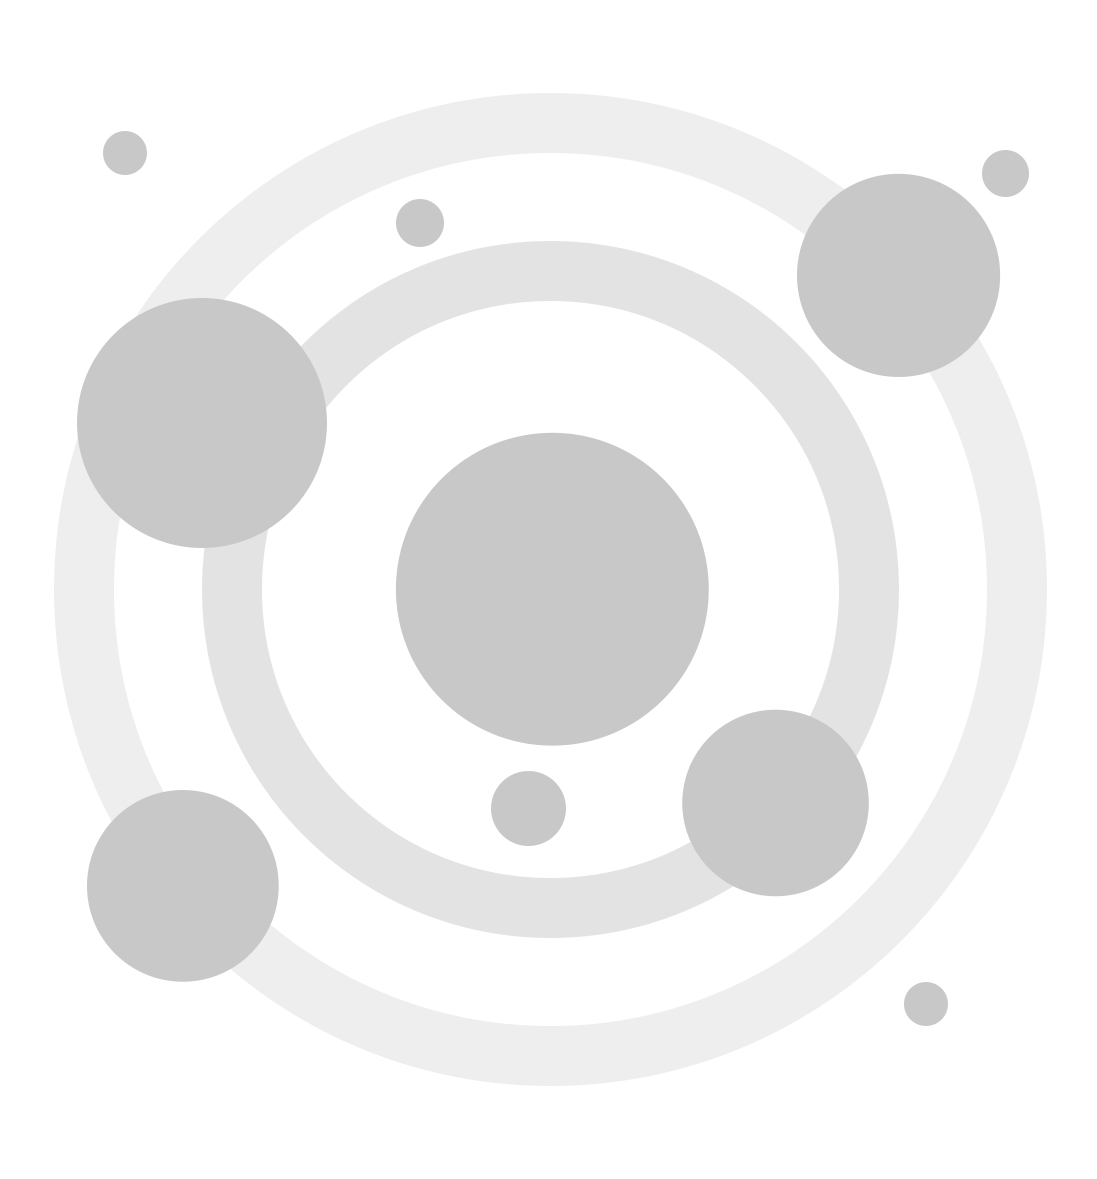
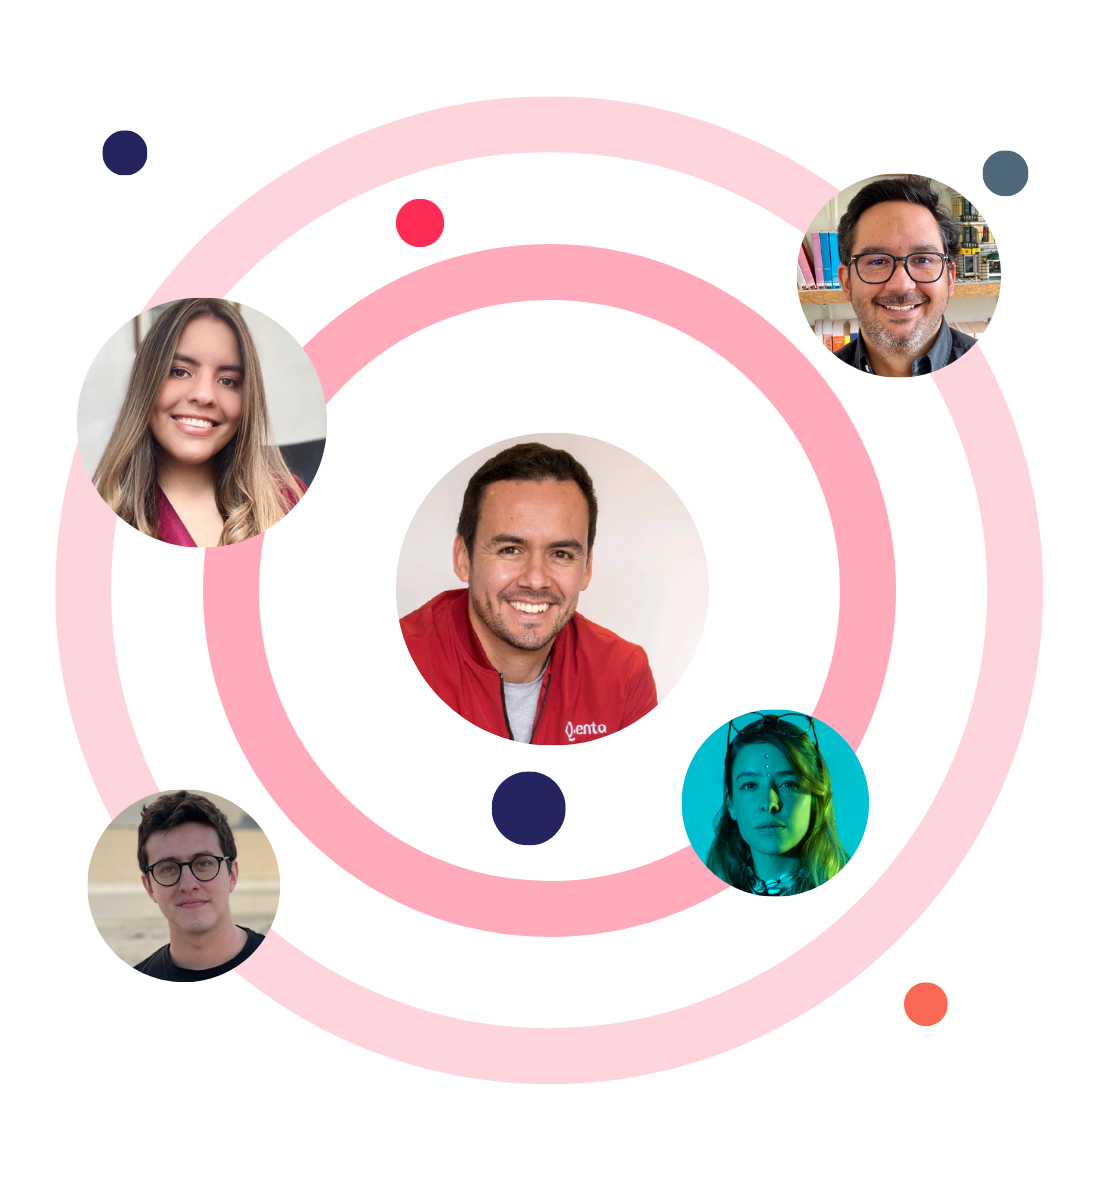
update homepage

diff --git a/index.html b/index.html
@@ -99,7 +99,7 @@
 
 
     <!-- banner starts -->
-    <section class="banner pt-10 pb-0 overflow-hidden" style="background-image:url(images/pexels-wendy-wei-1190297.jpg);">
+    <section class="banner pt-10 pb-0 overflow-hidden" style="background-image:url(2023/images/pexels-wendy-wei-1190297.jpg);">
         <div class="container">
             <div class="banner-in pt-6">
                 <div class="row align-items-end">
@@ -119,8 +119,8 @@
                         </div>
                     </div>
                     <div class="col-lg-5">
-                        <div class="banner-image" style="background-image:url(images/manbg.png);">
-                            <img src="2023/images/man4.png" alt="">
+                        <div class="banner-image" style="background-image:url(2023/images/speakersbg.png);">
+                            <img src="2023/images/speakers2023.png" alt="">
                         </div>
                     </div>
                 </div>
@@ -149,7 +149,7 @@
     <!-- coming counter Ends -->
 
      <!-- about-us starts -->
-     <section class="about-us about-features pt-12 pb-8" style="background-image:url(images/testimonial-1.png);">
+     <section class="about-us about-features pt-12 pb-8" style="background-image:url(2023/images/testimonial-1.png);">
         <div class="container">
             <div class="about-image-box">
                 <div class="row d-flex align-items-center justify-content-between">
@@ -239,7 +239,7 @@
                         </div>
                     </div>
                     <div class="col-lg-7 ps-4">
-                        <div class="about-features" style="background-image:url(images/contentbg.png);">
+                        <div class="about-features" style="background-image:url(2023/images/contentbg.png);">
                             <div class="row align-items-center">
                                 <div class="col-lg-6 mb-4">
                                     <img src="2023/images/about/busi-3.jpg" alt="">
@@ -522,7 +522,7 @@
     <!-- event-schedule ends -->
 
     <!-- our teams starts -->
-    <section class="event-team" style="background-image: url(images/manbg.png);">
+    <section class="event-team" style="background-image: url(2023/images/speakersbg.png);">
         <div class="container">
 
             <div class="section-title mb-5 w-75 mx-auto text-center">
@@ -764,7 +764,7 @@
     <!-- event-pricing ends -->
 
     <!-- event-calltoaction starts -->
-    <section class="event-calltoaction pb-0" style="background-image: url(images/pexels-sascha.jpg);">
+    <section class="event-calltoaction pb-0" style="background-image: url(2023/images/pexels-sascha.jpg);">
         <div class="container">
             <div class="section-title mb-5 w-60 mx-auto text-center">
                 <h3 class="h-title theme-stroke">Festival</h3>
@@ -823,7 +823,7 @@
     <!-- event-calltoaction ends -->
 
     <!-- event-gallery starts -->
-    <section class="event-gallery pb-0 pt-18" style="background-image: url(images/speaker_bg.png);">
+    <section class="event-gallery pb-0 pt-18" style="background-image: url(2023/images/speaker_bg.png);">
         <div class="container">
             <div class="section-title mb-5 w-75 mx-auto text-center">
                 <h3 class="h-title">Galeria</h3>
@@ -939,7 +939,7 @@
                                     <p class="m-0">El asombroso futuro es de las conferencias tecnológicas.</p>
                                 </div>
                                 <div class="author-info d-flex align-items-center">
-                                    <img src="2023/images/reviewer/1.jpg" alt="">
+                                    <img src="2023/images/reviewer/giancarlo-hincapie.png" alt="">
                                     <div class="author-title ms-3">
                                         <h5 class="m-0 theme">Giancarlo Hincapié Martinez</h5>
                                         <span>Industria Licorera Caldas</span>
@@ -954,7 +954,7 @@
                                     <p class="m-0">BOGOWEEK sigue siendo la respuesta más frecuente cuando les pregunto a otras personas sobre la conferencia a la que más quieren asistir este año.</p>
                                 </div>
                                 <div class="author-info d-flex align-items-center">
-                                    <img src="2023/images/reviewer/2.jpg" alt="">
+                                    <img src="2023/images/reviewer/flor-lievano.png" alt="">
                                     <div class="author-title ms-3">
                                         <h5 class="m-0 theme">Flor Liévano</h5>
                                         <span>OrangeUP Inc.</span>
@@ -969,7 +969,7 @@
                                     <p class="m-0">Techstars Startup Week es una de las conferencias de empresas emergentes más importantes del mundo..</p>
                                 </div>
                                 <div class="author-info d-flex align-items-center">
-                                    <img src="2023/images/reviewer/2.jpg" alt="">
+                                    <img src="2023/images/reviewer/eli-becerril.png" alt="">
                                     <div class="author-title ms-3">
                                         <h5 class="m-0 theme">Eli Becerril Wong</h5>
                                         <span>Techstars</span>
@@ -1021,6 +1021,52 @@
                     <h2 class="ah-headline mb-0">
                         <span>Patrocinio</span>
                         <span class="ah-words-wrapper white theme">
+                        <b class="is-visible textcap">Global</b>
+                        <b>Global</b>
+                        </span>
+                    </h2>
+                </div>
+            </div>
+            <div class="partners_inner">
+                <div class="row">
+                    <div class="col-lg-3 col-md-6 mb-4">
+                        <div class="partner-list border-all mb-4">
+                            <img src="2023/images/aliados/techstars.png" alt="Techstars">
+                        </div>
+                    </div>
+                    <div class="col-lg-3 col-md-6 mb-4">
+                        <div class="partner-list border-all">
+                            <img src="2023/images/aliados/godaddy-registry.png" alt="GoDaddy Registry">
+                        </div>
+                    </div>
+                    <div class="col-lg-3 col-md-6 mb-4">
+                        <div class="partner-list border-all mb-4">
+                            <img src="2023/images/aliados/brex.png" alt="Brex">
+                        </div>
+                    </div>
+                    <div class="col-lg-3 col-md-6 mb-4">
+                        <div class="partner-list border-all">
+                            <img src="2023/images/aliados/google-startups.png" alt="Google for Startups">
+                        </div>
+                    </div>
+                </div>
+            </div>
+
+            <div class="event-seperator">
+                <div class="container">
+                    <div class="event-seperator-divider d-flex border-b pt-2">
+                        <div class="event-seperator-icon position-absolute start-50 top-0 bg-white p-1">
+                            <i class="fas fa-star theme fs-5"></i>
+                        </div>
+                    </div>
+                </div>
+            </div>
+
+            <div class="section-title mb-5 w-75 mx-auto text-center">
+                <div class="selector4" style="display: flex; justify-content: center;">
+                    <h2 class="ah-headline mb-0">
+                        <span>Patrocinio</span>
+                        <span class="ah-words-wrapper white theme">
                         <b class="is-visible textcap">Gold</b>
                         <b>Gold</b>
                         </span>
@@ -1031,40 +1077,40 @@
                 <div class="row">
                     <div class="col-lg-3 col-md-6 mb-4">
                         <div class="partner-list border-all mb-4">
-                            <img src="2023/images/cl-5.png" alt="">
+                            <img src="2023/images/aliados/suego.png" alt="SUEGO S.A.S">
                         </div>
                         <div class="partner-list border-all">
-                            <img src="2023/images/cl-3.png" alt="">
+                            <img src="2023/images/aliados/orangeup.png" alt="OrangeUP Inc.">
                         </div>
                     </div>
                     <div class="col-lg-3 col-md-6 mb-4">
                         <div class="partner-list border-all mb-4">
-                            <img src="2023/images/cl-5.png" alt="">
+                            <img src="2023/images/aliados/wishupdigital.png" alt="WishUP Digital">
                         </div>
                         <div class="partner-list border-all">
-                            <img src="2023/images/cl-4.png" alt="">
+                            <img src="2023/images/aliados/aigente.png" alt="Aigente">
                         </div>
                     </div>
                     <div class="col-lg-3 col-md-6 mb-4">
                         <div class="partner-list border-all mb-4">
-                            <img src="2023/images/cl-1.png" alt="">
+                            <img src="2023/images/aliados/ccb.png" alt="">
                         </div>
                         <div class="partner-list border-all">
-                            <img src="2023/images/cl-2.png" alt="">
+                            <img src="2023/images/aliados/ccb-innovalab.png" alt="">
                         </div>
                     </div>
                     <div class="col-lg-3 col-md-6 mb-4">
                         <div class="partner-list border-all mb-4">
-                            <img src="2023/images/cl-2.png" alt="">
+                            <img src="2023/images/aliados/ccb-csf.jpg" alt="">
                         </div>
                         <div class="partner-list border-all">
-                            <img src="2023/images/cl-1.png" alt="">
+                            <img src="2023/images/aliados/burrito.jpg" alt="">
                         </div>
                     </div>
                 </div>
             </div>
 
-            <div class="event-seperator">
+            <!--<div class="event-seperator">
                 <div class="container">
                     <div class="event-seperator-divider d-flex border-b pt-2">
                         <div class="event-seperator-icon position-absolute start-50 top-0 bg-white p-1">
@@ -1120,9 +1166,9 @@
                         </div>
                     </div>
                 </div>
-            </div>
+            </div>-->
 
-            <div class="event-seperator">
+            <!--<div class="event-seperator">
                 <div class="container">
                     <div class="event-seperator-divider d-flex border-b pt-2">
                         <div class="event-seperator-icon position-absolute start-50 top-0 bg-white p-1">
@@ -1178,7 +1224,7 @@
                         </div>
                     </div>
                 </div>
-            </div>
+            </div>-->
 
             <div class="event-seperator">
                 <div class="container">
@@ -1205,34 +1251,18 @@
                 <div class="row">
                     <div class="col-lg-3 col-md-6 mb-4">
                         <div class="partner-list border-all mb-4">
-                            <img src="2023/images/cl-5.png" alt="">
+                            <img src="2023/images/aliados/gen-colombia.png" alt="">
                         </div>
                         <div class="partner-list border-all">
-                            <img src="2023/images/cl-3.png" alt="">
+                            <img src="2023/images/aliados/innpulsa-cemprende.png" alt="">
                         </div>
                     </div>
                     <div class="col-lg-3 col-md-6 mb-4">
                         <div class="partner-list border-all mb-4">
-                            <img src="2023/images/cl-5.png" alt="">
+                            <img src="2023/images/aliados/bloomshift.png" alt="">
                         </div>
-                        <div class="partner-list border-all">
-                            <img src="2023/images/cl-4.png" alt="">
-                        </div>
-                    </div>
-                    <div class="col-lg-3 col-md-6 mb-4">
                         <div class="partner-list border-all mb-4">
-                            <img src="2023/images/cl-1.png" alt="">
-                        </div>
-                        <div class="partner-list border-all">
-                            <img src="2023/images/cl-2.png" alt="">
-                        </div>
-                    </div>
-                    <div class="col-lg-3 col-md-6 mb-4">
-                        <div class="partner-list border-all mb-4">
-                            <img src="2023/images/cl-2.png" alt="">
-                        </div>
-                        <div class="partner-list border-all">
-                            <img src="2023/images/cl-1.png" alt="">
+                            <img src="2023/images/aliados/openexo.png" alt="">
                         </div>
                     </div>
                 </div>
@@ -1302,7 +1332,7 @@
     <!-- event-contact ends -->
 
     <!-- footer starts -->
-    <footer class="pt-12 pb-7" style="background-image: url(images/pexels-sascha.jpg);">
+    <footer class="pt-12 pb-7" style="background-image: url(2023/images/pexels-sascha.jpg);">
 
         <div class="container">
             <div class="row">
@@ -1315,10 +1345,10 @@
 
                         <div class="social-links">
                             <ul>
-                                <li><a href="https://bogoweek.co/fb"><i class="fab fa-facebook" aria-hidden="true"></i></a></li>
-                                <li><a href="https://bogoweek.co/tw"><i class="fab fa-twitter" aria-hidden="true"></i></a></li>
-                                <li><a href="https://bogoweek.co/in"><i class="fab fa-instagram" aria-hidden="true"></i></a></li>
-                                <li><a href="https://bogoweek.co/li"><i class="fab fa-linkedin" aria-hidden="true"></i></a></li>
+                                <li><a href="https://bogoweek.co/fb" target="_blank"><i class="fab fa-facebook" aria-hidden="true"></i></a></li>
+                                <li><a href="https://bogoweek.co/tw" target="_blank"><i class="fab fa-twitter" aria-hidden="true"></i></a></li>
+                                <li><a href="https://bogoweek.co/in" target="_blank"><i class="fab fa-instagram" aria-hidden="true"></i></a></li>
+                                <li><a href="https://bogoweek.co/li" target="_blank"><i class="fab fa-linkedin" aria-hidden="true"></i></a></li>
                             </ul>
                         </div>
                     </div>
@@ -1374,7 +1404,7 @@
     </footer>
     <div class="footer-copyright bg-theme1">
         <div class="container">
-            <p class="white text-center py-3">&copy;2020-2023 SUEGO S.A.S. Startup Week&trade; and Startup Weekend&trade; son marcas comerciales propiedad de Techstars Central, LLC. Cualquier uso no autorizado de estos nombres, o variaciones de estos nombres, es una violación de las leyes de marcas registradas estatales, federales e internacionales. Techstars Startup Week Bogotá (BOGOWEEK) es presentada por SUEGO S.A.S, OrangeUP S.A.S y muchas otras alianzas.</p>
+            <p class="white text-center py-3">&copy;2020-2023 SUEGO S.A.S. Todos los derechos reservados.</br></br>Startup Week&trade; and Startup Weekend&trade; son marcas comerciales propiedad de Techstars Central, LLC. Cualquier uso no autorizado de estos nombres, o variaciones de estos nombres, es una violación de las leyes de marcas registradas estatales, federales e internacionales. Techstars Startup Week Bogotá (BOGOWEEK) es presentada por SUEGO S.A.S, OrangeUP S.A.S y muchas otras alianzas.</p>
         </div>
     </div>
     <!-- footer ends -->
